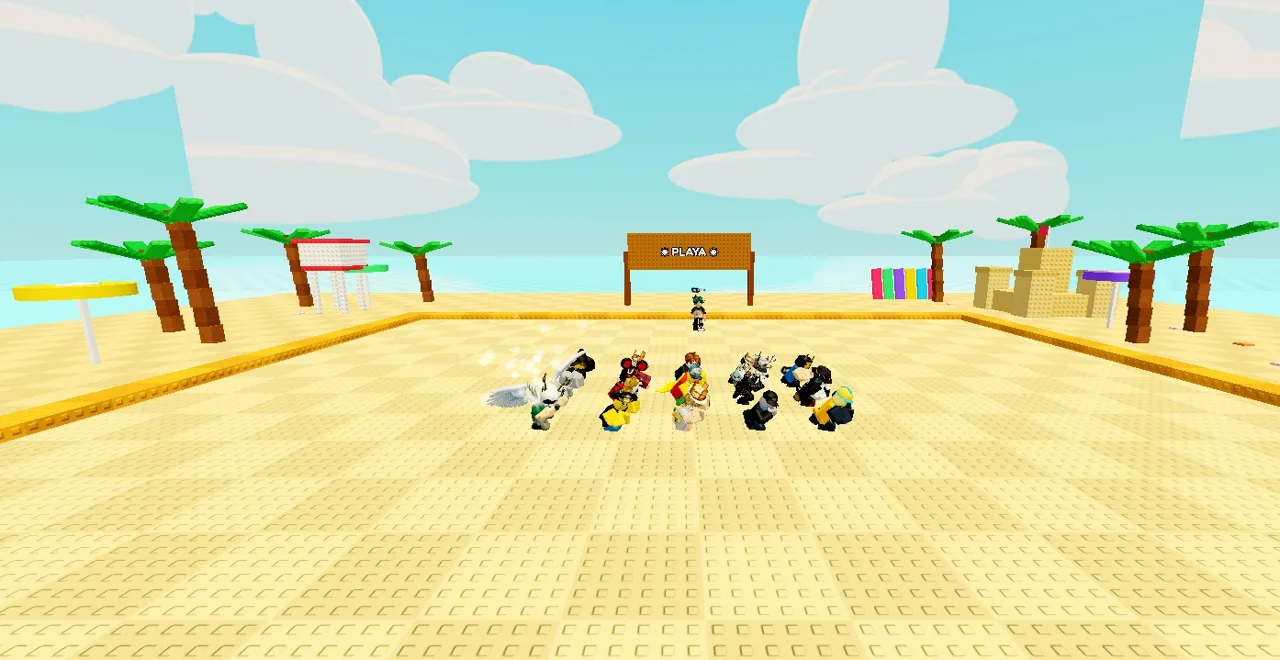
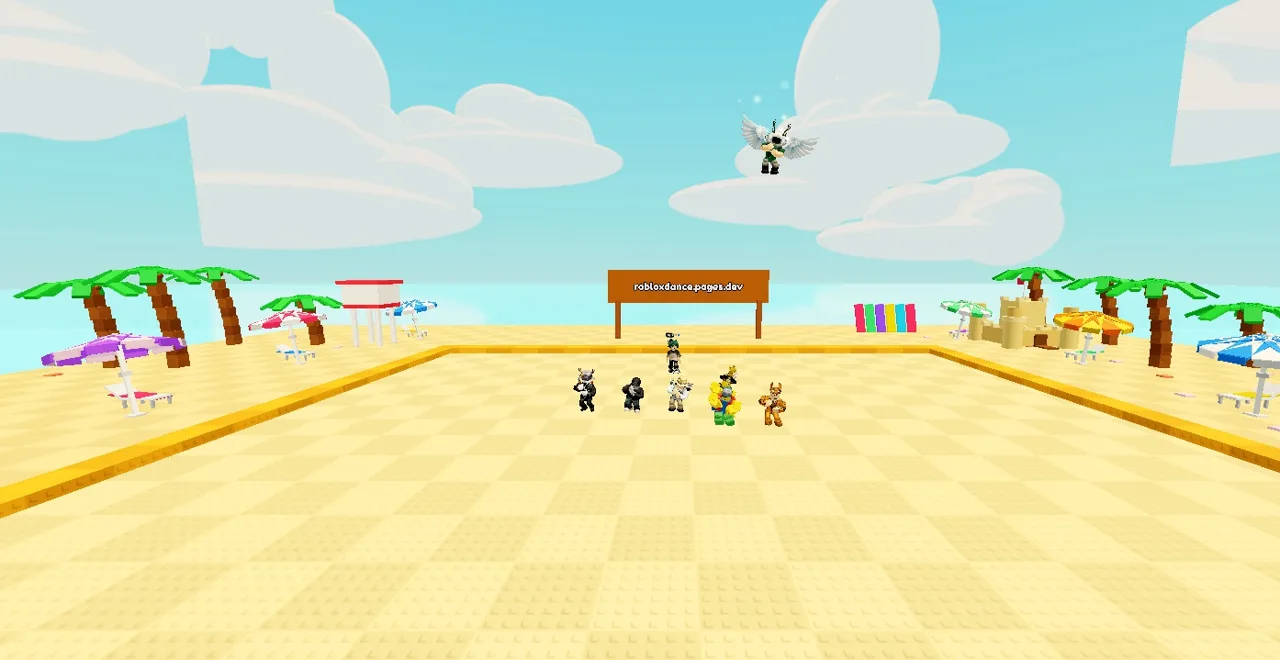
Web: escenarios nuevos (Nieve, Ciudad, Halloween) y playa nueva

diff --git a/index.html b/index.html
@@ -42,7 +42,7 @@
   </div>
   <div class="reveal">
     <div class="screen16" id="shot">
-      <img src="/img/scenes/fiesta.webp" alt="" class="on"><img src="/img/scenes/playa.webp" alt=""><img src="/img/scenes/galaxia.webp" alt=""><img src="/img/scenes/parque.webp" alt=""><img src="/img/scenes/dulces.webp" alt="">
+      <img src="/img/scenes/fiesta.webp" alt="" class="on"><img src="/img/scenes/playa.webp" alt=""><img src="/img/scenes/galaxia.webp" alt=""><img src="/img/scenes/parque.webp" alt=""><img src="/img/scenes/dulces.webp" alt=""><img src="/img/scenes/ciudad.webp" alt=""><img src="/img/scenes/nieve.webp" alt="">
       <span class="scene-tag" id="sceneTag">🪩 Fiesta</span>
       <div class="chat" id="chat"></div>
     </div>
@@ -67,6 +67,9 @@
     <div class="scene reveal"><img src="/img/scenes/parque.webp" alt="" loading="lazy"><span>🌳 Parque</span></div>
     <div class="scene reveal"><img src="/img/scenes/galaxia.webp" alt="" loading="lazy"><span>🌌 Galaxia</span></div>
     <div class="scene reveal"><img src="/img/scenes/dulces.webp" alt="" loading="lazy"><span>🍭 Dulces</span></div>
+    <div class="scene reveal"><img src="/img/scenes/nieve.webp" alt="" loading="lazy"><span>⛄ Nieve</span></div>
+    <div class="scene reveal"><img src="/img/scenes/ciudad.webp" alt="" loading="lazy"><span>🌃 Ciudad</span></div>
+    <div class="scene reveal"><img src="/img/scenes/halloween.webp" alt="" loading="lazy"><span>🎃 Halloween</span></div>
     <div class="scene reveal"><img src="/img/scenes/menu.webp" alt="" loading="lazy"><span data-t="sceneMenu"></span></div>
   </div>
 </section>

diff --git a/main.js b/main.js
@@ -17,7 +17,7 @@ $('#lang').onchange = (e) => { lang = e.target.value; store.set('rd-lang', lang)
 
 // ---------- héroe: escenarios que cambian + chat de TikTok de mentira ----------
 const shots = [...document.querySelectorAll('#shot img')];
-const sceneNames = ['🪩 Fiesta', '🏖 Playa', '🌌 Galaxia', '🌳 Parque', '🍭 Dulces'];
+const sceneNames = ['🪩 Fiesta', '🏖 Playa', '🌌 Galaxia', '🌳 Parque', '🍭 Dulces', '🌃 Ciudad', '⛄ Nieve'];
 let si = 0;
 setInterval(() => {
   shots[si].classList.remove('on');
